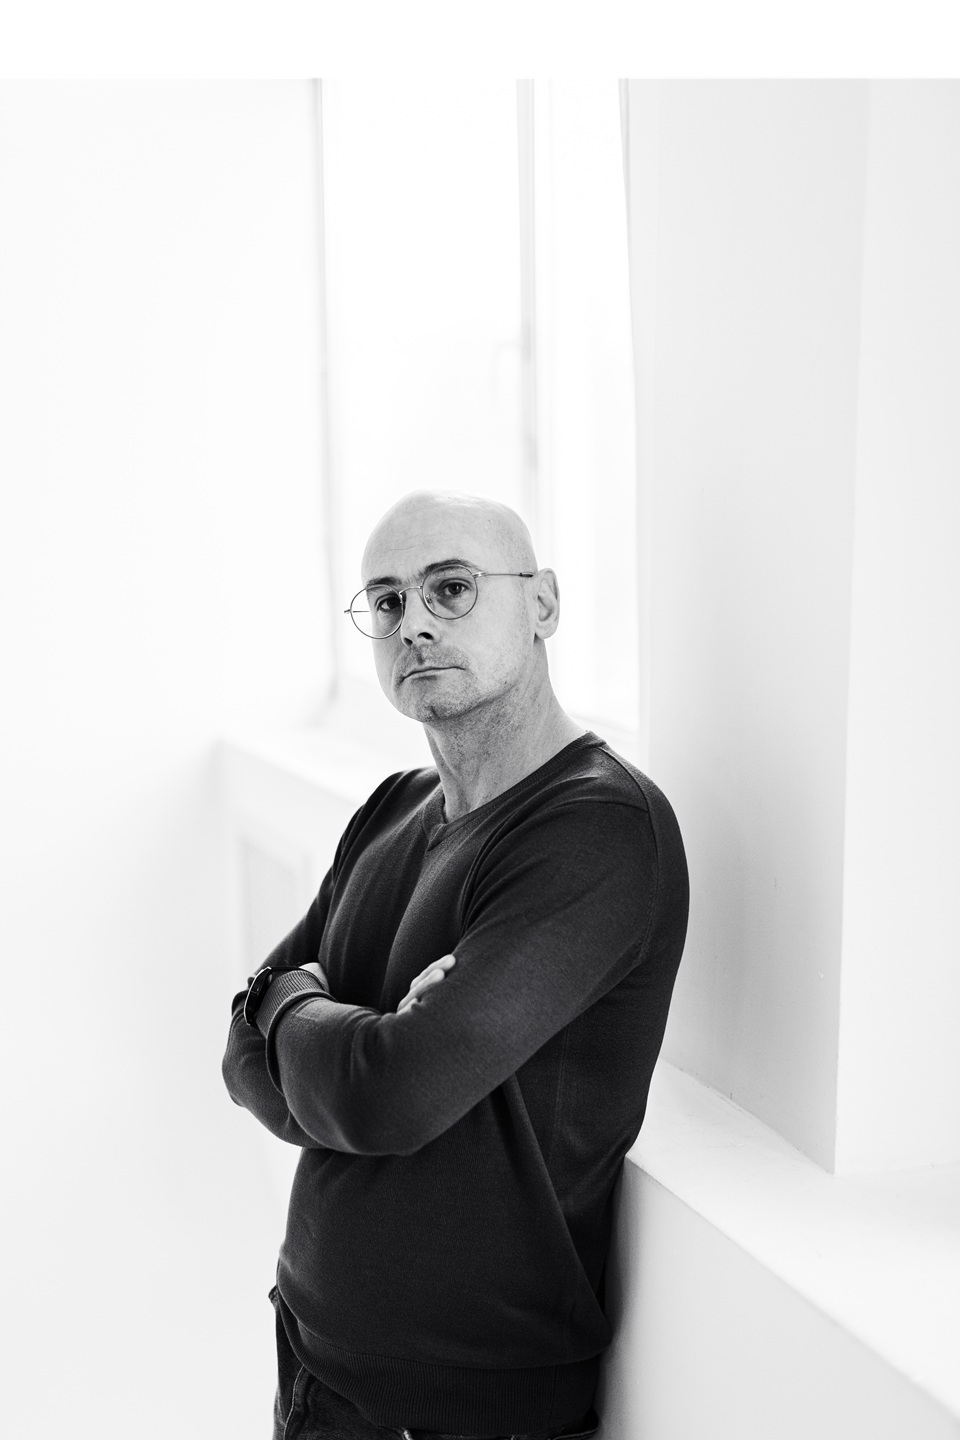
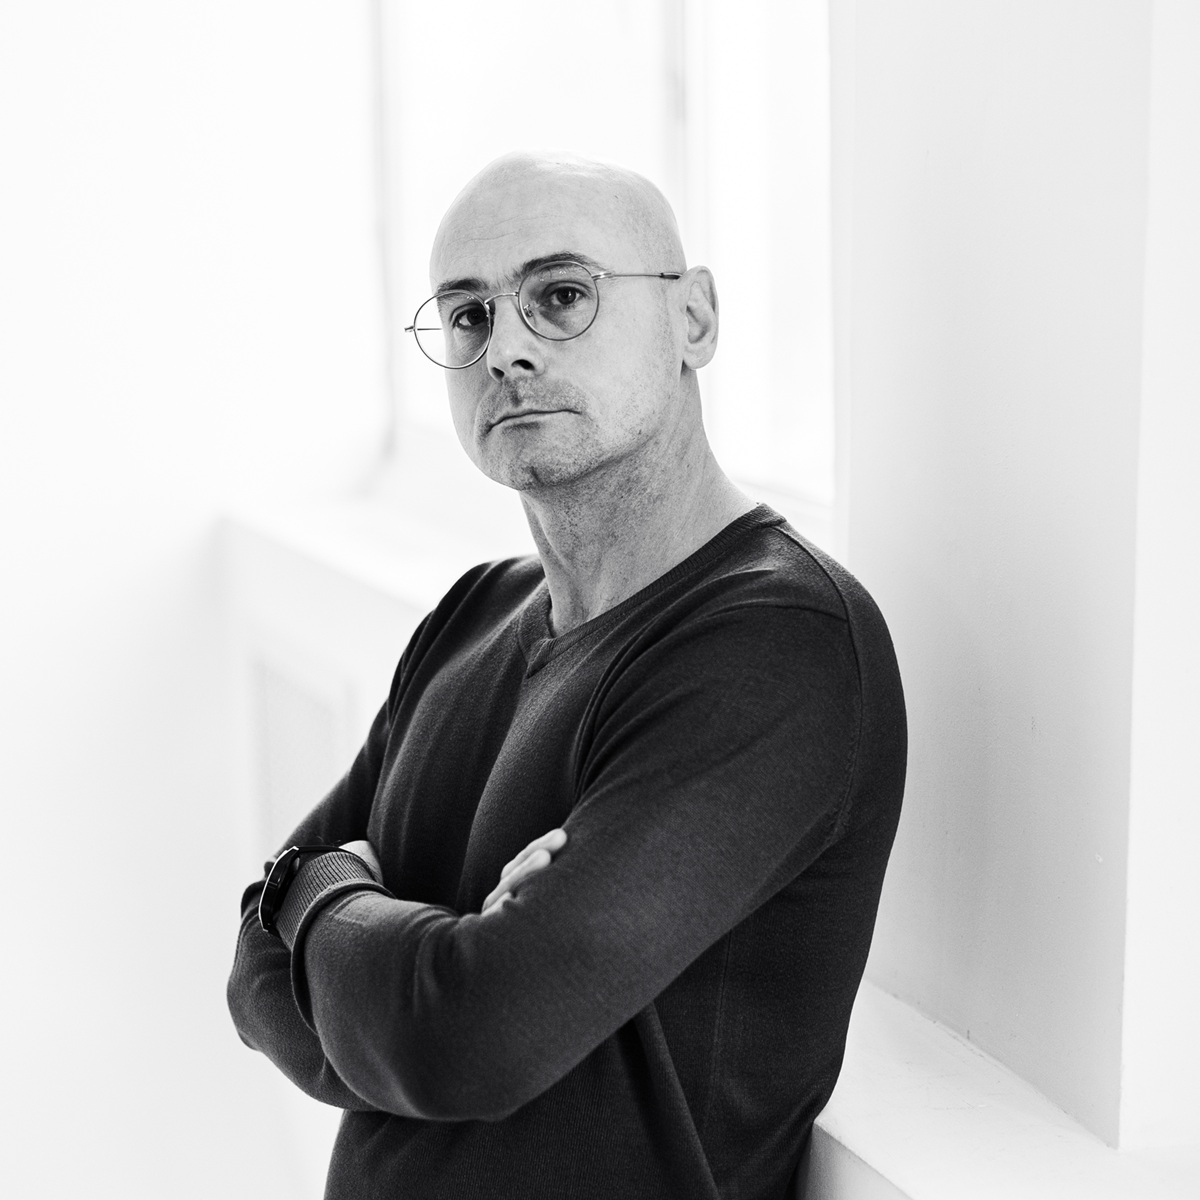
Use a 1200×1200 square for social previews.
The 2:3 portrait was center-cropped badly in WhatsApp and worse on Facebook.

diff --git a/index.html b/index.html
@@ -26,16 +26,16 @@
 	<meta property="og:url" content="https://ivanpopov.pro/" />
 	<meta property="og:title" content="Иван Попов, IT-эксперт" />
 	<meta property="og:description" content="Локальный AI ⬩ Кибербез ⬩ Сложные кейсы" />
-	<!-- One preview image for every crawler. Width/height so the first
+	<!-- One 1200×1200 preview for every crawler. Width/height so the first
 	  share can render without waiting on the image fetch:
 	  https://developers.facebook.com/documentation/sharing/webmasters/faq.md -->
 	<meta property="og:image" content="https://ivanpopov.pro/static/img/about/og-image-new.jpg" />
 	<meta property="og:image:type" content="image/jpeg" />
-	<meta property="og:image:width" content="960" />
-	<meta property="og:image:height" content="1440" />
+	<meta property="og:image:width" content="1200" />
+	<meta property="og:image:height" content="1200" />
 	<meta property="og:image:alt" content="Иван Попов, (IT, AI)" />
 
-	<!-- Twitter / X: summary card (thumbnail beside text). Same file. -->
+	<!-- Twitter / X: summary card (1:1 thumbnail beside text). Same file. -->
 	<meta name="twitter:card" content="summary">
 	<meta name="twitter:title" content="Иван Попов, IT-эксперт">
 	<meta name="twitter:description" content="Локальный AI ⬩ Кибербез ⬩ Сложные кейсы">
